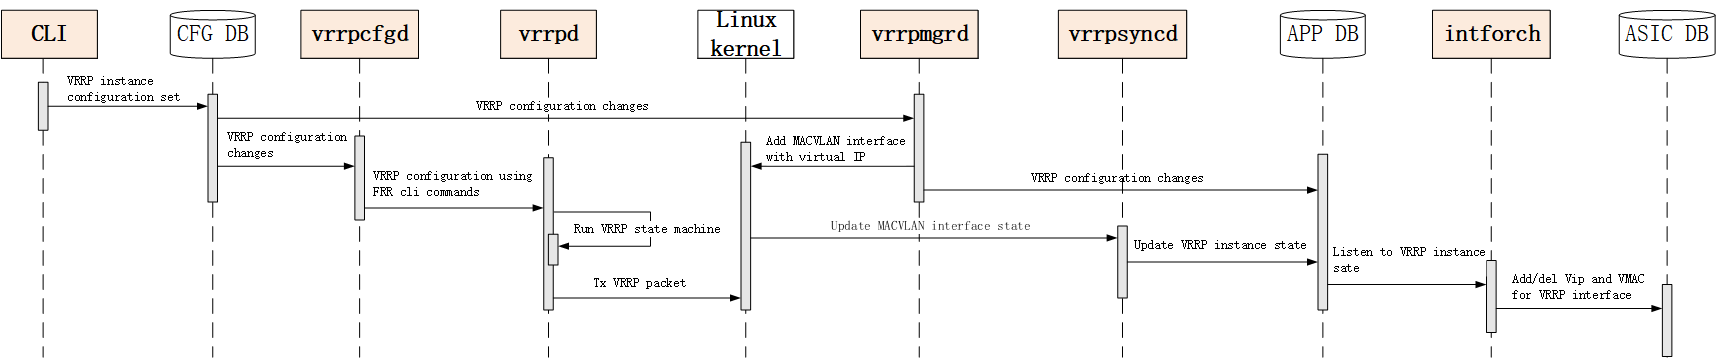
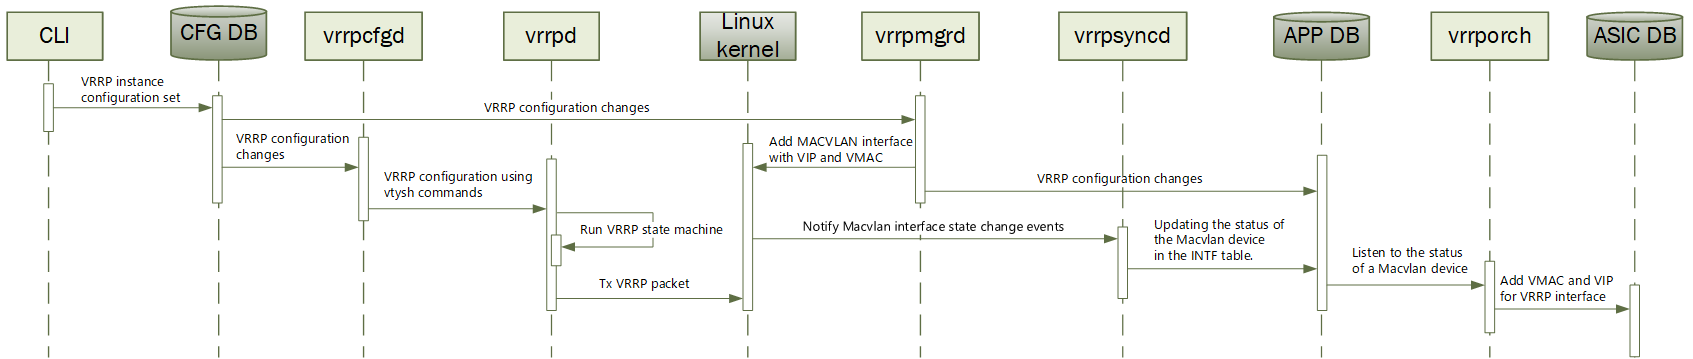
Modifying the HLD based on the review comments

diff --git a/doc/vrrp/VRRP_Adaptation_HLD.md b/doc/vrrp/VRRP_Adaptation_HLD.md
@@ -86,7 +86,7 @@ The election provides two basic functionality:
 
 Following requirements are addressed by the design presented in this document:
   1. Support VRRPv2(IPv4) and VRRPv3(IPv4 and IPv6)
-  2. Support VRRP on Ethernet, VLAN and PortChannel interfaces
+  2. Support VRRP on Ethernet, VLAN, sub-interfaces and PortChannel interfaces
   3. Support interface configuration of multiple VRRP instances.
   4. Support configurable priority for VRRP instance
   5. Support configurable preempt mode for VRRP instance
@@ -220,7 +220,7 @@ zebra:
 
 vrrpmgrd: 
   - Listens to VRRP create, delete and parameter change in CONFIG_DB. Complete the following tasks:
-    - Add/del Linux Macvlan device to kernel. The Macvlan device name starting with 'Vrrp-4' or 'Vrrp-6'.
+    - Add/del Linux Macvlan device to kernel. The Macvlan device name starting with 'Vrrp4-' or 'Vrrp6-'.
     - Config virtual MAC to Macvlan device;
     - Add/del VIP to Macvlan device;
     - Update VRRP instance configuration to the APPL DB.
@@ -272,7 +272,7 @@ Description: New table that stores VRRP configuration for per interface + VRID.
 ;New table
 ;holds the VRRP configuration per interface and VRID
 key             = VRRP:interface_name:vrid
-                                                ; Interface name string. Vlan, Ethernet or PortChannel
+                                                ; Interface name string. Vlan, Ethernet, sub-interfaces or PortChannel
                                                 ; vrid is an integer
 ; field = value
 vip                   = ip_address                    ; Virtual IP address. This is a list of IP addresses
@@ -324,23 +324,37 @@ Consumer: intforch
 
 Description: This is an existing table entry that VRRP will extend.
 ```
-; holds the VRRP state, Vip and VMAC information
+; holds the VRRP state and VMAC information
 
-key         = INTF_TABLE:macvlan_device:vip
-              macvlan_device        ; macvlan device name as a string. Start with "Vrrp"
-              vip                   ; Virtual IP address. IPv4 format is x.x.x.x/32, IPv6 format is xxx::xx/128
+key           = INTF_TABLE:Vrrp_intf_name
+                Vrrp_intf_name        ; macvlan device name as a string. The IPv4 format is "Vrrp4-"+"Vrid", while the IPv6 format is "Vrrp6-"+"Vrid"
 
 ; field = value
-vmac        = virtual_mac_address   ; Virtual MAC address associated with VRRP instance
-oper_state  = "up"|"down"           ; The oper state of the Macvlan device in kernel, determines the Master/Backup state of the VRRP instance
+parent_intf   = interface_name       ; Interface name string. Vlan, Ethernet, PortChannel or sub-interface.
+oper_state    = "up"|"down"          ; The oper state of the Macvlan device in kernel, determines the Master/Backup state of the VRRP instance
+```
+```
+; holds the VRRP Vip information
+
+key           = INTF_TABLE:Vrrp_intf_name:vip
+                Vrrp_intf_name        ; macvlan device name as a string. The IPv4 format is "Vrrp4-"+"Vrid", while the IPv6 format is "Vrrp6-"+"Vrid"
+                vip                   ; Virtual IP address. IPv4 format is x.x.x.x/32, IPv6 format is xxx::xx/128
+
+; field = value
 ```
 Example:-
 ```
-admin@sonic:~$ redis-cli -n 0 HGETALL "INTF_TABLE:Vrrp4-5:10.10.10.1/32"
-1) "vmac"
-2) "00:00:5e:00:01:05"
+admin@sonic:~$ redis-cli -n 0 HGETALL "INTF_TABLE:Vrrp4-5"
+
+1) "parent_intf"
+2) "Ethernet51"
 3) "oper_state"
 4) "up"
+
+admin@sonic:~$ redis-cli -n 0 HGETALL "INTF_TABLE:Vrrp4-5:10.10.10.1/32"
+
+1) "NULL"
+2) "NULL"
 ```
 
 #### ASIC_DB Changes
@@ -368,7 +382,7 @@ admin@sonic:~$ redis-cli -n 1 hgetall "ASIC_STATE:SAI_OBJECT_TYPE_ROUTER_INTERFA
 
 vrrpcfgd:
   - Listens to VRRP create, delete and parameter change in CONFIG DB
-  - Update changes by using FRR CLI commands
+  - Update changes by using vtysh commands
 
 vrrpd:
   - Listens to VRRP create, delete and parameter change in vrrpcfgd
@@ -380,7 +394,7 @@ vrrpmgrd:
   - Listens to VRRP create, delete and parameter change in CONFIG DB
   - Upon change
     - Add/del VRRP instance corresponding Macvlan device to kernel with IPs and state.
-    - Updates VRRP instance configuration to the APPL DB, such as Macvlan device name, Vip and VMAC.
+    - Updates VRRP instance configuration to the APPL DB, such as Macvlan device name and Vip.
 
 vrrpsyncd:
   - Listens to Macvlan interface programming in kernel. 
@@ -587,49 +601,45 @@ SONIC Click based configuration and monitoring CLIs have been introduced in SONI
 
 - config interface vrrp add/remove <interface_name> <vrrp_id>
     - This command adds/ removes a VRRP instance on an interface.
-    - interface_name:name of interface (Ethernet/Vlan/PortChannel).
+    - interface_name:name of interface (Ethernet/Vlan/PortChannel/sub-interface).
     - vrrp_id:VRRP instance identifier.
 - config interface vrrp backup_forward <interface_name> <vrrp_id> enabled|disabled
     - This command configures  enables/disables the VRRP instance to forward service traffic even if the VRRP instance in the backup state
-    - interface_name:name of interface (Ethernet/Vlan/PortChannel).
+    - interface_name:name of interface (Ethernet/Vlan/PortChannel/sub-interface).
     - vrrp_id:VRRP instance identifier.
     - backup_forward: VRRP instance forwarding traffic in the backup state，can be enabled or disabeld. default is disabled.
 - config interface vrrp vip add/remove <interface_name> <vrrp_id> <virtual_ip_address>
     - This command adds a virtual IP address for a VRRP instance on an interface.
-    - interface_name:name of interface (Ethernet/Vlan/PortChannel).
+    - interface_name:name of interface (Ethernet/Vlan/PortChannel/sub-interface).
     - vrrp_id:VRRP instance identifier.
     - virtual_ip_address: VIP address in dotted decimal IPv4 or IPv6 address
 - config interface vrrp priority <interface_name> <vrrp_id> <priority>
     - This command configures priority for a VRRP instance
-    - interface_name:name of interface (Ethernet/Vlan/PortChannel).
+    - interface_name:name of interface (Ethernet/Vlan/PortChannel/sub-interface).
     - vrrp_id:VRRP instance identifier.
     - priority: VRRP instance priority, range from 1 to 254, default is 100
 - config interface vrrp adv_interval <interface_name> <vrrp_id> <interval>
     - This command configures VRRP periodic advertisement interval for a VRRP instance
-    - interface_name:name of interface (Ethernet/Vlan/PortChannel).
+    - interface_name:name of interface (Ethernet/Vlan/PortChannel/sub-interface).
     - vrrp_id:VRRP instance identifier.
     - Interval: VRRP instance packet sending interval, range from 10 to 40950, unit: ms, default is 1000
 - config interface vrrp pre_empt enable/disable <interface_name> <vrrp_id>
     - This command enables pre-emption of a Master when a higher priority VRRP router arrives
-    - interface_name:name of interface (Ethernet/Vlan/PortChannel).
+    - interface_name:name of interface (Ethernet/Vlan/PortChannel/sub-interface).
     - vrrp_id:VRRP instance identifier.
-- config interface vrrp track_interface add <interface_name> <vrrp_id> <track_interface>
+- config interface vrrp track_interface add/remove <interface_name> <vrrp_id> <track_interface>
     - This command adds a track interface to a VRRP Instance.
-    - interface_name:name of interface (Ethernet/Vlan/PortChannel).
+    - interface_name:name of interface (Ethernet/Vlan/PortChannel/sub-interface).
     - vrrp_id:VRRP instance identifier.
     - track_interface: Interface to track. Interface can be Ethernet/Vlan/PortChannel
-- config interface vrrp track_interface remove <interface_name> <vrrp_id> <track_interface>
-    - This command removes an already configured track interface from a VRRP Instance.
-    - interface_name:name of interface (Ethernet/Vlan/PortChannel).
-    - vrrp_id:VRRP instance identifier.
 - config interface vrrp priority_decrement <interface_name> <vrrp_id> <decrement_value>
     - This command configures priority_decrement for a VRRP instance
-    - interface_name:name of interface (Ethernet/Vlan/PortChannel).
+    - interface_name:name of interface (Ethernet/Vlan/PortChannel/sub-interface).
     - vrrp_id:VRRP instance identifier.
     - decrement_value: decrement the priority of the VRRP instance if the tracking interface goes down. range from 10 to 50, default is 20
 - config interface vrrp shutdown/startup <interface_name> <vrrp_id>
     - This command control up/down status of VRRP instance.
-    - interface_name:name of interface (Ethernet/Vlan/PortChannel).
+    - interface_name:name of interface (Ethernet/Vlan/PortChannel/sub-interface).
     - vrrp_id:VRRP instance identifier.
 
 ###### Show commands
